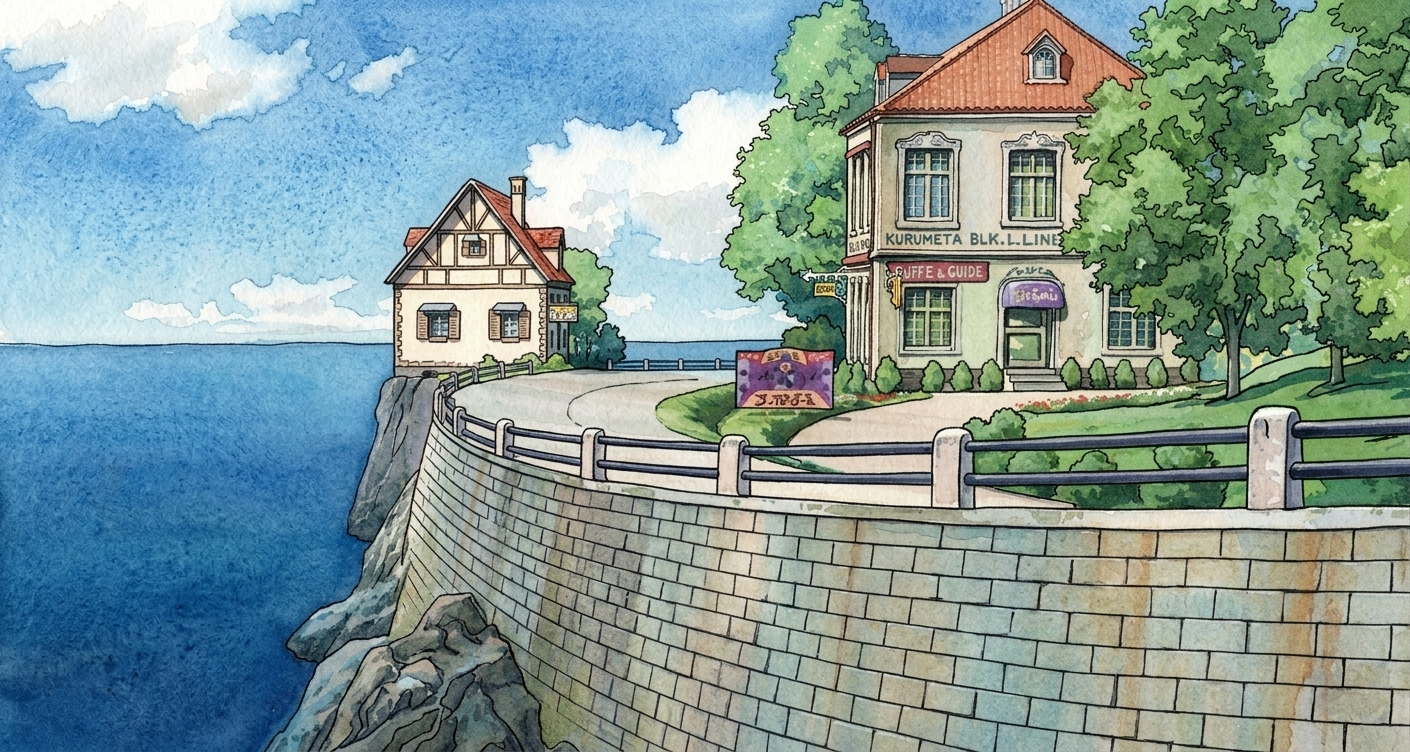
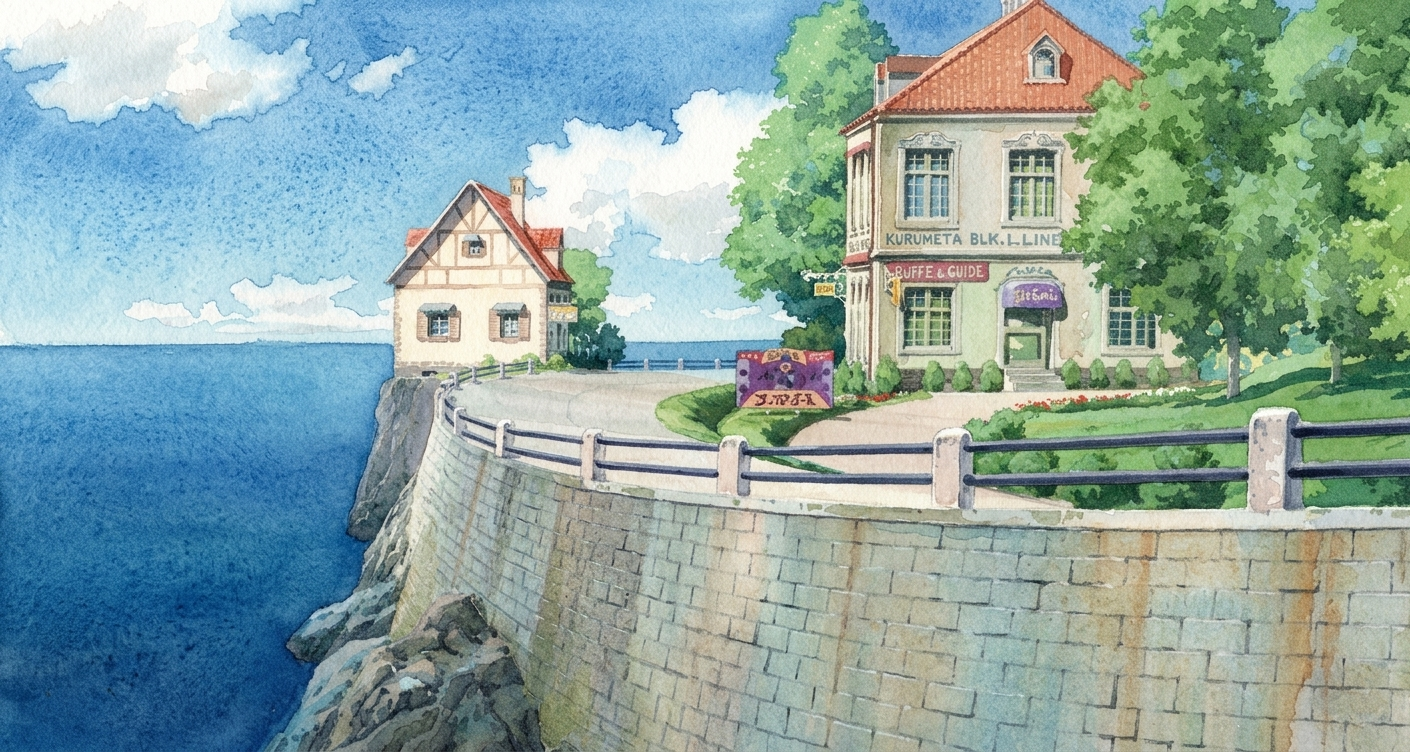
img

Changed region(s): [[0.1872, 0.0, 1.0, 1.0], [0.7801, 0.9176, 1.0, 1.0], [0.2184, 0.7952, 0.2496, 0.8258]]

diff --git a/script.js b/script.js
@@ -59,38 +59,6 @@ function loadImageOnce(src) {
   return _imgCache[src];
 }
 
-// сглаженная траектория-«змейка» по всему кадру (Catmull-Rom)
-function buildWanderPath(W, H, samples) {
-  const rows = 5, cols = 4, jx = W * 0.07, jy = H * 0.05;
-  const wp = [];
-  wp.push([W * 0.5, H * 1.02]);                 // влетает снизу
-  for (let r = 0; r < rows; r++) {
-    const y = H * ((r + 0.5) / rows);
-    for (let c = 0; c < cols; c++) {
-      const tx = (r % 2 === 0) ? c / (cols - 1) : 1 - c / (cols - 1);
-      wp.push([
-        W * (0.12 + 0.76 * tx) + (Math.random() * 2 - 1) * jx,
-        y + (Math.random() * 2 - 1) * jy,
-      ]);
-    }
-  }
-  wp.push([W * 0.5, -H * 0.05]);                // мягко уходит вверх
-  const cr = (p0, p1, p2, p3, t) => {
-    const t2 = t * t, t3 = t2 * t;
-    return 0.5 * ((2 * p1) + (-p0 + p2) * t + (2 * p0 - 5 * p1 + 4 * p2 - p3) * t2 + (-p0 + 3 * p1 - 3 * p2 + p3) * t3);
-  };
-  const pts = [];
-  for (let i = 0; i < wp.length - 1; i++) {
-    const p0 = wp[i - 1] || wp[i], p1 = wp[i], p2 = wp[i + 1], p3 = wp[i + 2] || wp[i + 1];
-    const seg = Math.ceil(samples / (wp.length - 1));
-    for (let s = 0; s < seg; s++) {
-      const t = s / seg;
-      pts.push([cr(p0[0], p1[0], p2[0], p3[0], t), cr(p0[1], p1[1], p2[1], p3[1], t)]);
-    }
-  }
-  return pts;
-}
-
 let bdPaint = null;
 function drawBirthdayBg() {
   const box = document.querySelector('.birthday__bg');
@@ -102,6 +70,7 @@ function drawBirthdayBg() {
   bdPaint.run();
 }
 
+// живые цветные пятна: обесцвеченная акварель оживает кляксами в разных местах
 function createBirthdayPaint(canvas) {
   const box = canvas.parentElement;
   const rect = box.getBoundingClientRect();
@@ -112,14 +81,18 @@ function createBirthdayPaint(canvas) {
 
   const bw = document.createElement('canvas'); bw.width = W; bw.height = H;
   const col = document.createElement('canvas'); col.width = W; col.height = H;
-  const trail = document.createElement('canvas'); trail.width = W; trail.height = H;   // накопительная маска (альфа)
+  const trail = document.createElement('canvas'); trail.width = W; trail.height = H;   // маска цвета (альфа)
   const tctx = trail.getContext('2d');
   const tmp = document.createElement('canvas'); tmp.width = W; tmp.height = H;
   const xctx = tmp.getContext('2d');
 
-  const DUR = 8600;            // длительность закраски
-  const R = Math.max(52, H * 0.10); // радиус кисти (узкий видимый след)
-  let raf = 0, stopped = false, pts = null, t0 = 0, lastIdx = 0, doneAt = 0;
+  const COLS = 5, ROWS = 4;
+  const SPAWN = 4200;     // за сколько появляются все пятна
+  const GROW = 1600;      // рост одного пятна
+  const FADE = 700;       // финальная дозакраска остатка
+  let raf = 0, stopped = false, seeds = null, t0 = 0, doneAt = 0;
+
+  const easeOut = g => 1 - (1 - g) * (1 - g);
 
   function cover(iw, ih) {
     const s = Math.max(W / iw, H / ih);
@@ -127,95 +100,78 @@ function createBirthdayPaint(canvas) {
     return [(W - dw) / 2, (H - dh) / 2, dw, dh];
   }
 
-  // мягкая акварельная «клякса» кисти в позиции (x,y)
-  function stamp(x, y, k) {
-    const rr = R * (0.82 + Math.random() * 0.4);
-    const g = tctx.createRadialGradient(x, y, 0, x, y, rr);
-    g.addColorStop(0, 'rgba(0,0,0,' + (0.9 * k).toFixed(3) + ')');
-    g.addColorStop(0.6, 'rgba(0,0,0,' + (0.5 * k).toFixed(3) + ')');
+  // сетка позиций + случайный порядок появления → пятна возникают в разных местах
+  function buildSeeds() {
+    const list = [];
+    const cellW = W / COLS, cellH = H / ROWS;
+    const rMax = Math.max(cellW, cellH) * 1.15;
+    for (let r = 0; r < ROWS; r++) for (let c = 0; c < COLS; c++) {
+      const cx = (c + 0.5) * cellW + (Math.random() * 2 - 1) * cellW * 0.35;
+      const cy = (r + 0.5) * cellH + (Math.random() * 2 - 1) * cellH * 0.35;
+      const blobs = [];
+      const nb = 3 + (Math.random() * 2 | 0);
+      for (let k = 0; k < nb; k++) {
+        blobs.push({ ang: Math.random() * Math.PI * 2, dist: 0.35 + Math.random() * 0.6, rr: 0.34 + Math.random() * 0.28 });
+      }
+      list.push({ cx, cy, rMax: rMax * (0.85 + Math.random() * 0.4), blobs });
+    }
+    // перемешать порядок появления
+    for (let i = list.length - 1; i > 0; i--) { const j = Math.random() * (i + 1) | 0;[list[i], list[j]] = [list[j], list[i]]; }
+    list.forEach((s, i) => { s.start = (i / list.length) * SPAWN + Math.random() * 120; });
+    return list;
+  }
+
+  function blot(x, y, r, a) {
+    const g = tctx.createRadialGradient(x, y, 0, x, y, r);
+    g.addColorStop(0, 'rgba(0,0,0,' + a + ')');
+    g.addColorStop(0.62, 'rgba(0,0,0,' + (a * 0.55).toFixed(3) + ')');
     g.addColorStop(1, 'rgba(0,0,0,0)');
     tctx.fillStyle = g;
-    tctx.beginPath(); tctx.arc(x, y, rr, 0, Math.PI * 2); tctx.fill();
-    // пара мелких брызг для «растекания»
-    for (let i = 0; i < 2; i++) {
-      const a = Math.random() * Math.PI * 2, d = rr * (0.5 + Math.random() * 0.7), br = rr * (0.15 + Math.random() * 0.2);
-      const bx = x + Math.cos(a) * d, by = y + Math.sin(a) * d;
-      const g2 = tctx.createRadialGradient(bx, by, 0, bx, by, br);
-      g2.addColorStop(0, 'rgba(0,0,0,' + (0.5 * k).toFixed(3) + ')');
-      g2.addColorStop(1, 'rgba(0,0,0,0)');
-      tctx.fillStyle = g2;
-      tctx.beginPath(); tctx.arc(bx, by, br, 0, Math.PI * 2); tctx.fill();
-    }
+    tctx.beginPath(); tctx.arc(x, y, r, 0, Math.PI * 2); tctx.fill();
   }
 
-  // светящаяся звезда-искра
-  function drawStar(x, y, tms) {
-    const tw = 0.82 + 0.18 * Math.sin(tms / 150);
-    ctx.save();
-    ctx.globalCompositeOperation = 'lighter';
-    // мягкий ореол (небольшой)
-    const gr = ctx.createRadialGradient(x, y, 0, x, y, 20 * tw);
-    gr.addColorStop(0, 'rgba(255,251,232,0.9)');
-    gr.addColorStop(0.4, 'rgba(255,206,96,0.5)');
-    gr.addColorStop(1, 'rgba(255,159,52,0)');
-    ctx.fillStyle = gr;
-    ctx.beginPath(); ctx.arc(x, y, 20 * tw, 0, Math.PI * 2); ctx.fill();
-    // лучи-звезда (4 длинных + 4 коротких)
-    ctx.translate(x, y); ctx.rotate(tms / 1600);
-    const drawRays = (len, wdt, alpha) => {
-      ctx.fillStyle = 'rgba(255,247,224,' + alpha + ')';
-      for (let i = 0; i < 4; i++) {
-        ctx.rotate(Math.PI / 2);
-        ctx.beginPath();
-        ctx.moveTo(0, -len); ctx.lineTo(wdt, 0); ctx.lineTo(0, len); ctx.lineTo(-wdt, 0);
-        ctx.closePath(); ctx.fill();
-      }
-    };
-    drawRays(30 * tw, 1.8, 0.95);
-    ctx.rotate(Math.PI / 4);
-    drawRays(14 * tw, 1.3, 0.7);
-    ctx.rotate(-Math.PI / 4);
-    // яркое ядро
-    ctx.fillStyle = 'rgba(255,255,250,0.95)';
-    ctx.beginPath(); ctx.arc(0, 0, 3.2 * tw, 0, Math.PI * 2); ctx.fill();
-    ctx.restore();
+  // маска перерисовывается заново каждый кадр по текущим радиусам (мягкие края без наслоений)
+  function stampSeed(s, r) {
+    blot(s.cx, s.cy, r, 1);
+    for (const b of s.blobs) blot(s.cx + Math.cos(b.ang) * b.dist * r, s.cy + Math.sin(b.ang) * b.dist * r, b.rr * r, 0.9);
   }
 
-  function compose(headX, headY, tms, extraFill) {
+  function compose(extraFill) {
     ctx.globalCompositeOperation = 'source-over';
     ctx.clearRect(0, 0, W, H);
-    ctx.drawImage(bw, 0, 0);                       // Ч/Б основа
-    // цвет по накопленной маске
+    ctx.drawImage(bw, 0, 0);                        // обесцвеченная основа
     xctx.globalCompositeOperation = 'source-over';
     xctx.clearRect(0, 0, W, H);
     xctx.drawImage(col, 0, 0);
     xctx.globalCompositeOperation = 'destination-in';
-    xctx.drawImage(trail, 0, 0);
+    xctx.drawImage(trail, 0, 0);                    // цвет только внутри пятен
     xctx.globalCompositeOperation = 'source-over';
     ctx.drawImage(tmp, 0, 0);
     if (extraFill > 0) { ctx.globalAlpha = extraFill; ctx.drawImage(col, 0, 0); ctx.globalAlpha = 1; }
-    if (headX != null) drawStar(headX, headY, tms);
   }
 
   function frame(now) {
     if (stopped) return;
     if (!t0) t0 = now;
     const el = now - t0;
-    const p = Math.min(1, el / DUR);
-    const idx = Math.floor(p * (pts.length - 1));
-    for (let i = lastIdx + 1; i <= idx; i++) stamp(pts[i][0], pts[i][1], 1);
-    lastIdx = idx;
-    const head = pts[Math.min(idx, pts.length - 1)];
 
-    if (p < 1) {
-      compose(head[0], head[1], el, 0);
+    tctx.clearRect(0, 0, W, H);
+    let allMature = true;
+    for (const s of seeds) {
+      const e = el - s.start;
+      if (e <= 0) { allMature = false; continue; }
+      const g = Math.min(1, e / GROW);
+      if (g < 1) allMature = false;
+      stampSeed(s, easeOut(g) * s.rMax);
+    }
+
+    if (!allMature) {
+      compose(0);
       raf = requestAnimationFrame(frame);
     } else {
-      // дозакрасить остаток до полного цвета + звезда мягко улетает вверх и гаснет
       if (!doneAt) doneAt = now;
-      const q = Math.min(1, (now - doneAt) / 900);
-      const hx = head[0], hy = head[1] - q * 60;
-      compose(q < 1 ? hx : null, hy, el, q);
+      const q = Math.min(1, (now - doneAt) / FADE);   // дозакрасить остаток
+      compose(q);
       if (q < 1) raf = requestAnimationFrame(frame);
     }
   }
@@ -227,14 +183,13 @@ function createBirthdayPaint(canvas) {
       catch (e) { return; }
       if (stopped) return;
       const [dx, dy, dw, dh] = cover(img.naturalWidth, img.naturalHeight);
-      const cx = col.getContext('2d');
-      cx.drawImage(img, dx, dy, dw, dh);
+      col.getContext('2d').drawImage(img, dx, dy, dw, dh);
       const bx = bw.getContext('2d');
-      bx.filter = 'grayscale(1) brightness(1.04) contrast(1.02)';
+      bx.filter = 'grayscale(1) contrast(1.03)';     // обесцвеченная акварель (без выбеливания)
       bx.drawImage(img, dx, dy, dw, dh);
       bx.filter = 'none';
-      pts = buildWanderPath(W, H, 1100);
-      compose(pts[0][0], pts[0][1], 0, 0);         // сразу показать Ч/Б + звезду у старта
+      seeds = buildSeeds();
+      compose(0);                                    // старт — обесцвеченный кадр
       raf = requestAnimationFrame(frame);
     },
     stop() { stopped = true; if (raf) cancelAnimationFrame(raf); },

diff --git a/index.html b/index.html
@@ -10,7 +10,7 @@
   <link rel="preload" as="image" href="img/mobile-img/one-fon-version.webp" media="(max-width: 600px)" fetchpriority="high">
   <link rel="preload" as="image" href="img/photoshop-img/one-fon.webp" media="(min-width: 601px)" fetchpriority="high">
   <link href="https://fonts.googleapis.com/css2?family=Cormorant:wght@400;500;600&family=Cormorant+Garamond:wght@400;600&family=Inter:wght@400;500;600&family=Lobster&family=Manrope:wght@400;500;600&family=Marck+Script&family=Playfair+Display:wght@400;500;600;700&family=Quicksand:wght@500;700&family=Rubik:wght@400;500;600&display=swap" rel="stylesheet">
-  <link rel="stylesheet" href="style.css?v=58">
+  <link rel="stylesheet" href="style.css?v=61">
 </head>
 
 <body>
@@ -418,7 +418,7 @@
   </div>
 
   <script src="https://cdn.jsdelivr.net/npm/gsap@3.12.5/dist/gsap.min.js"></script>
-  <script src="script.js?v=58"></script>
+  <script src="script.js?v=61"></script>
 
 </body>
 

diff --git a/style.css b/style.css
@@ -282,16 +282,10 @@ html, body {
   display: block;
 }
 
-/* лёгкая вуаль поверх акварели — чтобы текст читался */
-.birthday__bg::after {
-  content: "";
-  position: absolute;
-  inset: 0;
-  background: linear-gradient(180deg,
-    rgba(238, 232, 225, .58),
-    rgba(238, 232, 225, .30) 34%,
-    rgba(238, 232, 225, .34) 66%,
-    rgba(238, 232, 225, .62));
+/* без вуали — вместо неё лёгкое свечение под текстом для читаемости */
+.birthday__title,
+.birthday__subtitle {
+  text-shadow: 0 1px 10px rgba(250, 246, 238, .85), 0 0 2px rgba(250, 246, 238, .9);
 }
 
 /* контент поверх фона */
